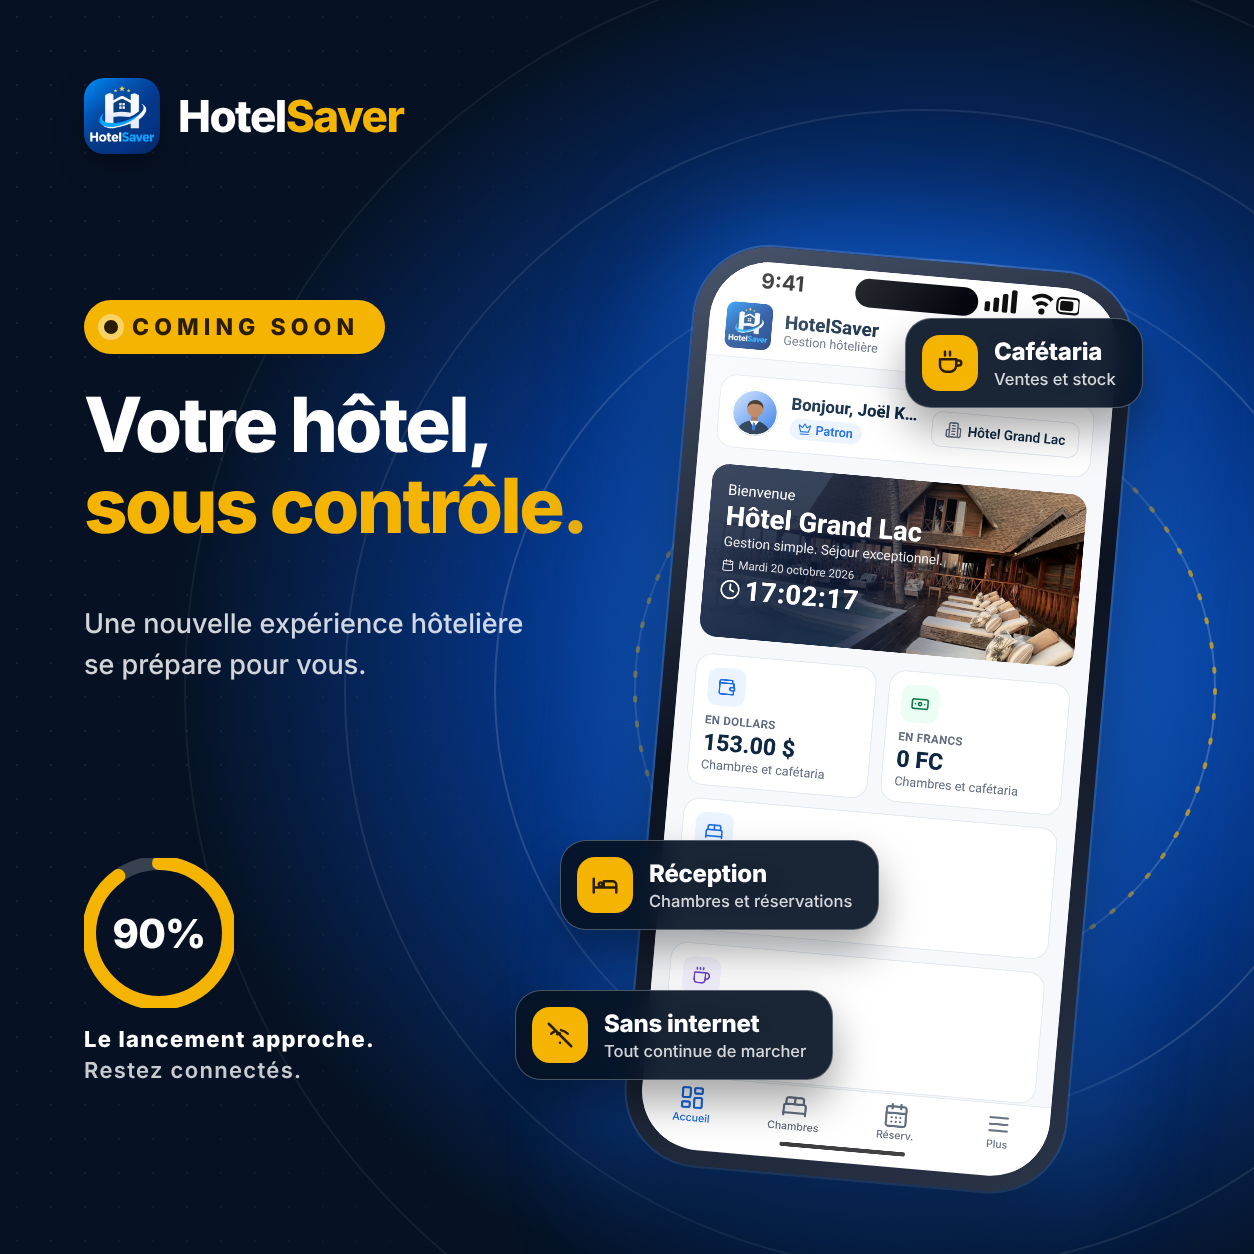
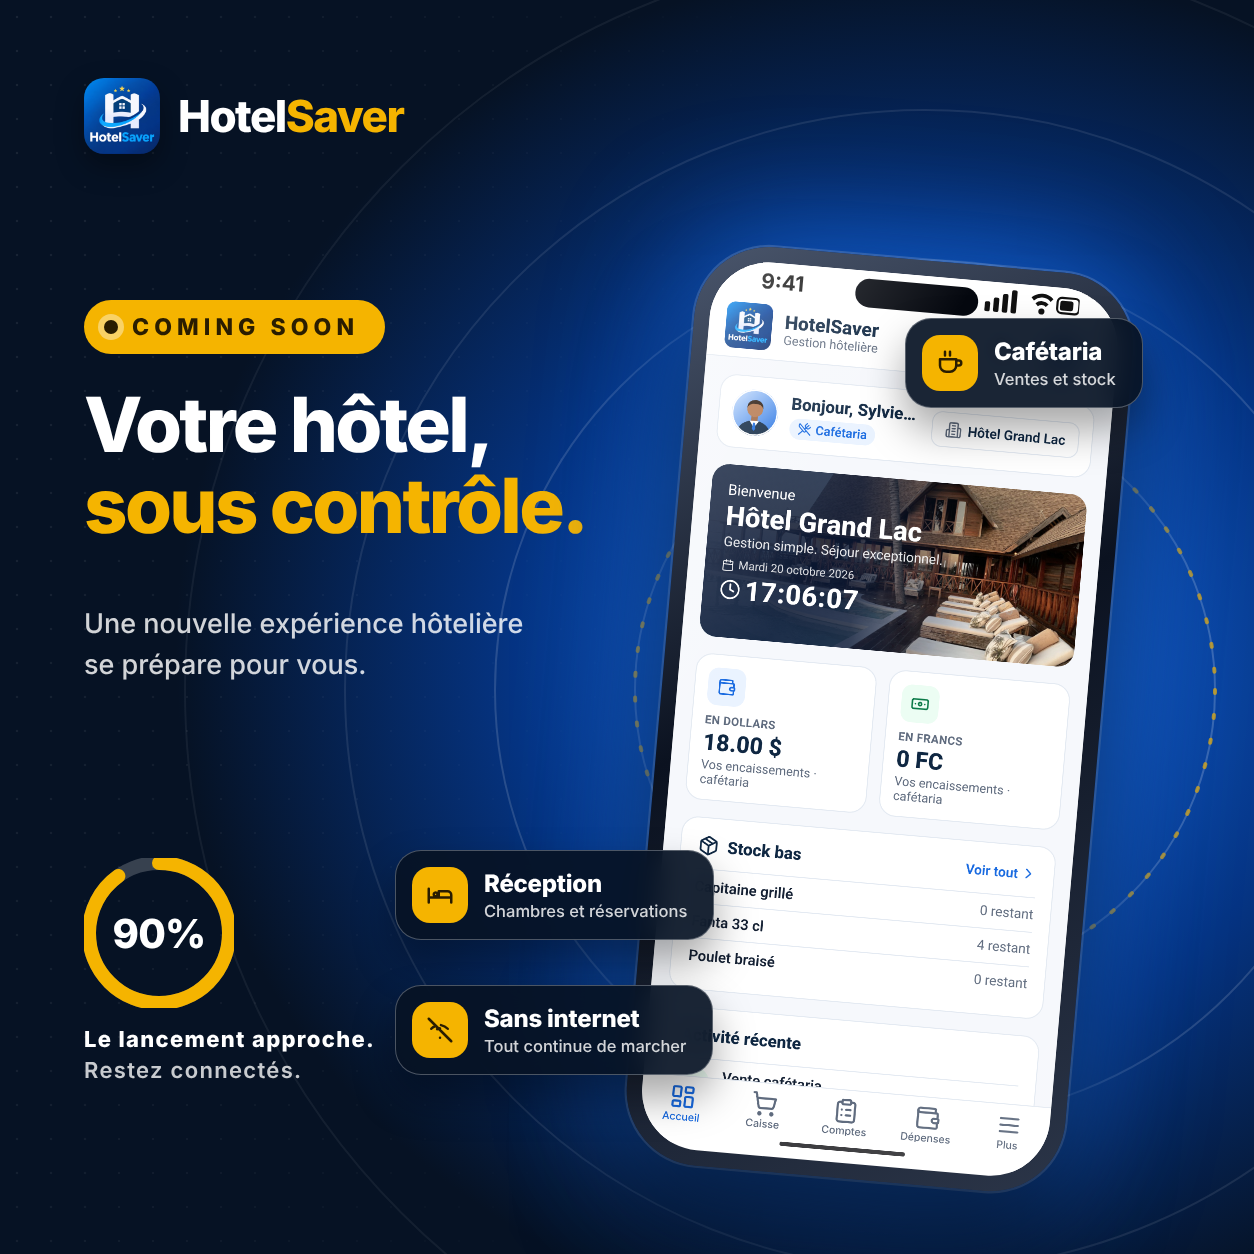
docs(marketing): affiche HotelSaver avec le tableau de bord de la cafétaria
Claude-Session: https://claude.ai/code/session_01JLEYFmsP1wv1n7Kng1teaP

diff --git a/docs/marketing/affiches/sortie/hotelsaver-coming-soon-unique.html b/docs/marketing/affiches/sortie/hotelsaver-coming-soon-unique.html
@@ -46,7 +46,7 @@
   <p class="phrase">Une nouvelle expérience hôtelière se prépare pour vous.</p>
   <div class="jauge"><svg width="150" height="150" viewBox="0 0 150 150"><circle cx="75" cy="75" r="70" fill="none" stroke="rgba(255,255,255,.2)" stroke-width="14"/><circle cx="75" cy="75" r="70" fill="none" stroke="#F5B400" stroke-width="14" stroke-linecap="round" stroke-dasharray="395.84067435231395 439.822971502571" transform="rotate(-90 75 75)"/></svg><b>90%</b></div>
   <div class="jauge-texte"><strong>Le lancement approche.</strong><br>Restez connectés.</div>
-  <div class="tel"><div class="ecran"><img class="cap" src="file:///home/user/HotelSaver/docs/marketing/affiches/assets/hotelsaver-tableau-de-bord.png" alt=""><div class="etat"><span>9:41</span><svg width="86" height="26" viewBox="0 0 86 26" fill="#111"><rect x="0" y="14" width="5" height="9" rx="1.5"/><rect x="8" y="10" width="5" height="13" rx="1.5"/><rect x="16" y="6" width="5" height="17" rx="1.5"/><rect x="24" y="2" width="5" height="21" rx="1.5"/><path d="M42 7a14 14 0 0 1 20 0l-2.4 2.6a10.4 10.4 0 0 0-15.2 0z"/><path d="M46 12a8.6 8.6 0 0 1 12 0l-2.4 2.6a5.2 5.2 0 0 0-7.2 0z"/><circle cx="52" cy="19" r="2.8"/><rect x="66" y="5" width="20" height="14" rx="4" fill="none" stroke="#111" stroke-width="2"/><rect x="68.5" y="7.5" width="12" height="9" rx="2"/></svg></div><div class="ilot"></div><div class="reflet"></div></div></div>
-  <div class="pastille" style="left:560px;top:840px"><span class="pico"><svg viewBox="0 0 24 24" width="30" height="30" fill="none" stroke="#2A1D00" stroke-width="2" stroke-linecap="round" stroke-linejoin="round"><path d="M3 18V7M3 14h18v4M21 14v-2a3 3 0 0 0-3-3h-7v5M7 11.5a1.5 1.5 0 1 0 0-.01"/></svg></span><div><b>Réception</b><small>Chambres et réservations</small></div></div><div class="pastille" style="left:515px;top:990px"><span class="pico"><svg viewBox="0 0 24 24" width="30" height="30" fill="none" stroke="#2A1D00" stroke-width="2" stroke-linecap="round" stroke-linejoin="round"><path d="M3 3l18 18M8.5 8.8A7 7 0 0 0 5 11m4.7.3A4 4 0 0 1 12 10.7m6.2.3a10 10 0 0 0-5.4-2.9M12 18.2h.01"/></svg></span><div><b>Sans internet</b><small>Tout continue de marcher</small></div></div><div class="pastille" style="left:905px;top:318px"><span class="pico"><svg viewBox="0 0 24 24" width="30" height="30" fill="none" stroke="#2A1D00" stroke-width="2" stroke-linecap="round" stroke-linejoin="round"><path d="M4 9h13v5a5 5 0 0 1-5 5H9a5 5 0 0 1-5-5zM17 10h2a2 2 0 0 1 0 4h-2M8 3v3m4-3v3"/></svg></span><div><b>Cafétaria</b><small>Ventes et stock</small></div></div>
+  <div class="tel"><div class="ecran"><img class="cap" src="file:///home/user/HotelSaver/docs/marketing/affiches/assets/hotelsaver-cafeteria-accueil.png" alt=""><div class="etat"><span>9:41</span><svg width="86" height="26" viewBox="0 0 86 26" fill="#111"><rect x="0" y="14" width="5" height="9" rx="1.5"/><rect x="8" y="10" width="5" height="13" rx="1.5"/><rect x="16" y="6" width="5" height="17" rx="1.5"/><rect x="24" y="2" width="5" height="21" rx="1.5"/><path d="M42 7a14 14 0 0 1 20 0l-2.4 2.6a10.4 10.4 0 0 0-15.2 0z"/><path d="M46 12a8.6 8.6 0 0 1 12 0l-2.4 2.6a5.2 5.2 0 0 0-7.2 0z"/><circle cx="52" cy="19" r="2.8"/><rect x="66" y="5" width="20" height="14" rx="4" fill="none" stroke="#111" stroke-width="2"/><rect x="68.5" y="7.5" width="12" height="9" rx="2"/></svg></div><div class="ilot"></div><div class="reflet"></div></div></div>
+  <div class="pastille" style="left:395px;top:850px"><span class="pico"><svg viewBox="0 0 24 24" width="30" height="30" fill="none" stroke="#2A1D00" stroke-width="2" stroke-linecap="round" stroke-linejoin="round"><path d="M3 18V7M3 14h18v4M21 14v-2a3 3 0 0 0-3-3h-7v5M7 11.5a1.5 1.5 0 1 0 0-.01"/></svg></span><div><b>Réception</b><small>Chambres et réservations</small></div></div><div class="pastille" style="left:395px;top:985px"><span class="pico"><svg viewBox="0 0 24 24" width="30" height="30" fill="none" stroke="#2A1D00" stroke-width="2" stroke-linecap="round" stroke-linejoin="round"><path d="M3 3l18 18M8.5 8.8A7 7 0 0 0 5 11m4.7.3A4 4 0 0 1 12 10.7m6.2.3a10 10 0 0 0-5.4-2.9M12 18.2h.01"/></svg></span><div><b>Sans internet</b><small>Tout continue de marcher</small></div></div><div class="pastille" style="left:905px;top:318px"><span class="pico"><svg viewBox="0 0 24 24" width="30" height="30" fill="none" stroke="#2A1D00" stroke-width="2" stroke-linecap="round" stroke-linejoin="round"><path d="M4 9h13v5a5 5 0 0 1-5 5H9a5 5 0 0 1-5-5zM17 10h2a2 2 0 0 1 0 4h-2M8 3v3m4-3v3"/></svg></span><div><b>Cafétaria</b><small>Ventes et stock</small></div></div>
   
   </body></html>
